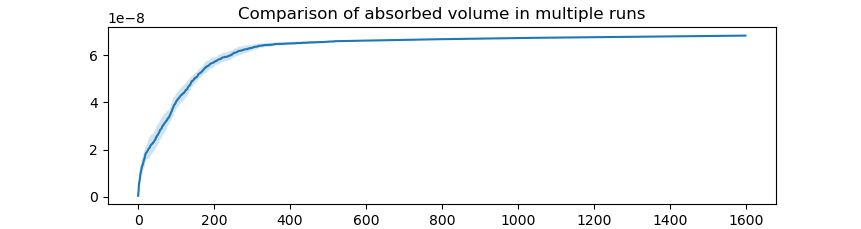
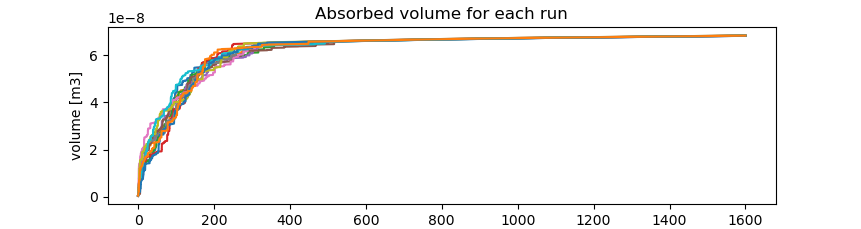
Add plots for the experimental simulation's result

diff --git a/network_script.py b/network_script.py
@@ -455,11 +455,19 @@ def simulation(pnm):
     return [time, V]
 
 def plot(pnm, results):
-    def plot_simulation_logarithmic():
-        for result in results:
-            plt.loglog(result[0], result[1])   
+    xsqrt = np.arange(1, pnm.params['tmax'])
+    ysqrt = 2E-12*np.sqrt(xsqrt)
+    line_alpha = 1 if len(results) < 10 else 0.5
+    sqrt_col = 'chartreuse'
 
-        plt.title('simulation results')
+    def plot_simulation_logarithmic():
+        plt.figure()
+        for result in results:
+            plt.loglog(result[0], result[1], alpha = 0.4)
+
+        plt.loglog(xsqrt, ysqrt, dashes = (5, 5), color = sqrt_col, alpha = 1)
+
+        plt.title('Absorbed volume for each run (logarithmic)')
         plt.xlabel('time [s]')
         plt.ylabel('volume [m3]')
         plt.xlim(0.1,pnm.params['tmax'])
@@ -467,7 +475,9 @@ def plot(pnm, results):
     def plot_simulation():
         plt.figure()
         for result in results:
-            plt.plot(result[0], result[1])   
+            plt.plot(result[0], result[1], alpha = 0.4)
+
+        plt.plot(xsqrt, ysqrt, dashes = (5, 5), color = sqrt_col, alpha = 1)
         plt.title('Absorbed volume for each run')
         plt.xlabel('time [s]')
         plt.ylabel('volume [m3]')
@@ -480,7 +490,7 @@ def plot(pnm, results):
             Qmax = np.max([Qmax, Q[5:].max()])
             plt.plot(result[0], np.gradient(result[1]))
     
-        plt.title('experimental network')
+        plt.title('Flux through the pore network')
         plt.xlabel('time [s]')
         plt.ylabel('flux [m3/s]')
         plt.ylim(0, Qmax)
@@ -503,14 +513,17 @@ def plot(pnm, results):
         yhalf = 1E-7*np.sqrt(xhalf)
 
         # Configure the plot
-        plt.title('Comparison of absorbed volume in multiple runs')
         plt.plot(time_coarse, mean_coarse)
+        plt.plot(xsqrt, ysqrt, dashes = (5, 5), color = sqrt_col, alpha = 1)
         plt.fill_between(time_coarse, mean_coarse-std_coarse, mean_coarse+std_coarse, alpha=0.2)
 
         if pnm.data:
             (pnm.data['volume'].sum(axis = 0)*vxm3).plot(color='k')
 
+        plt.title('Comparison between the absorbed volume and the experimental data')
+
     plot_simulation()
+    plot_simulation_logarithmic()
     plot_comparison()
     plt.show()
 
